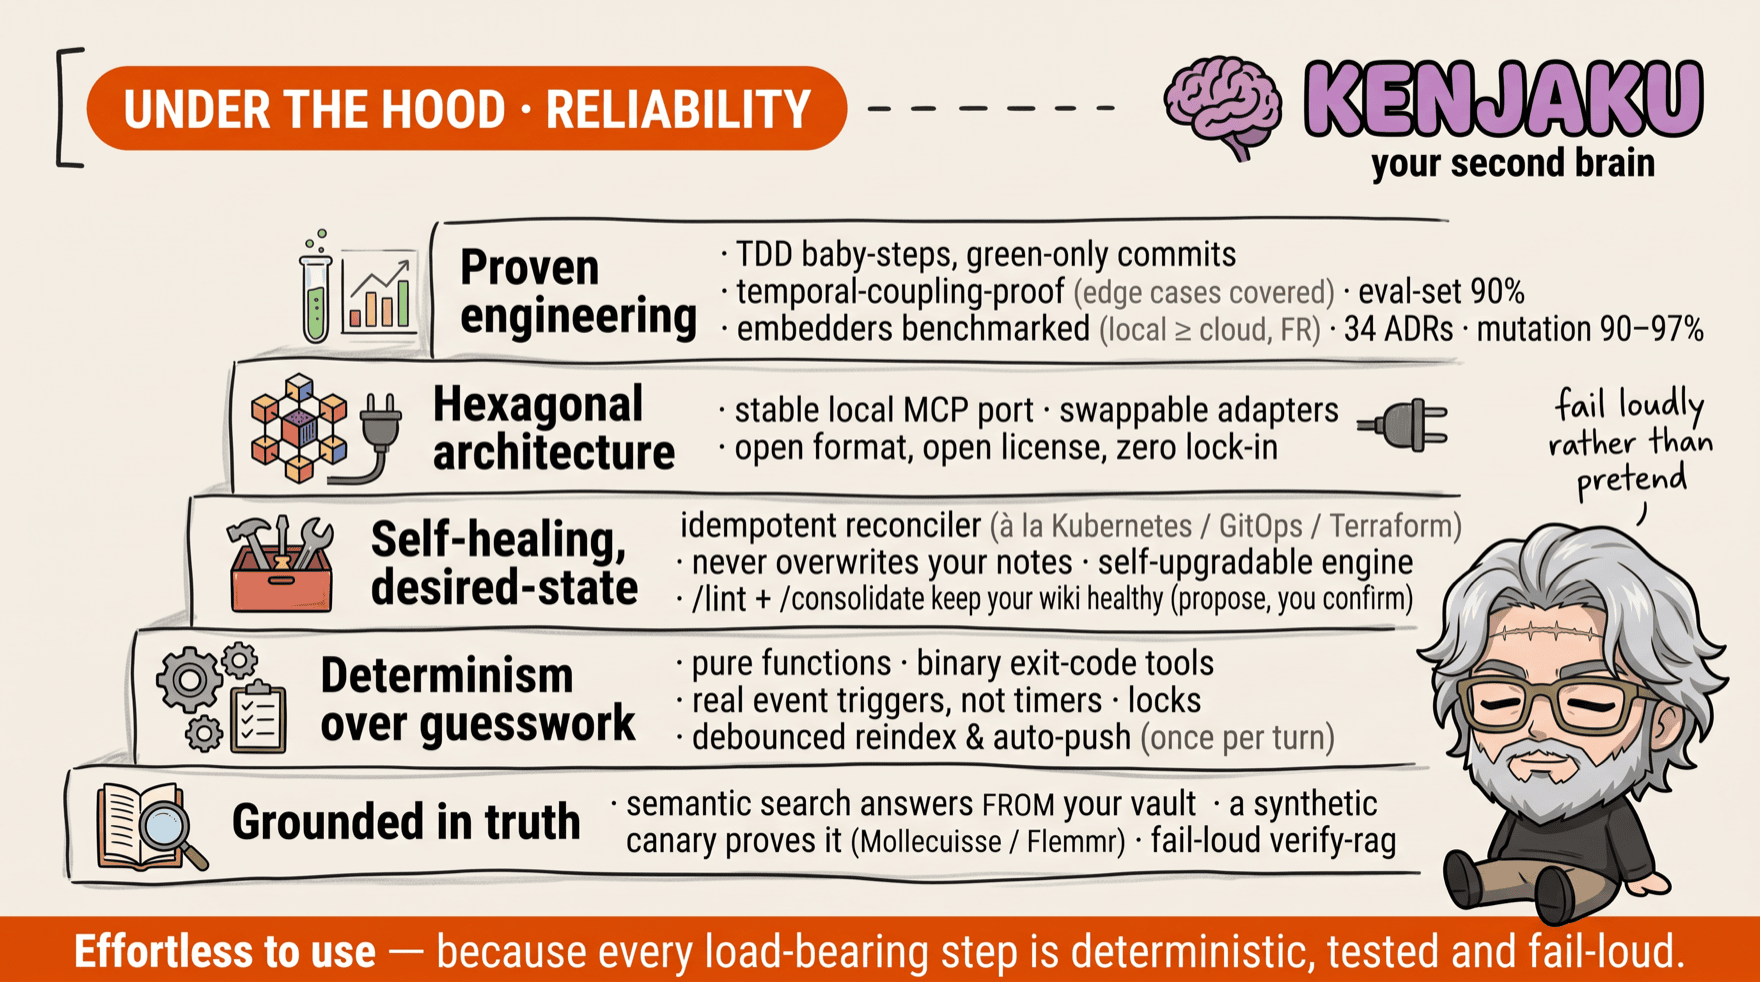
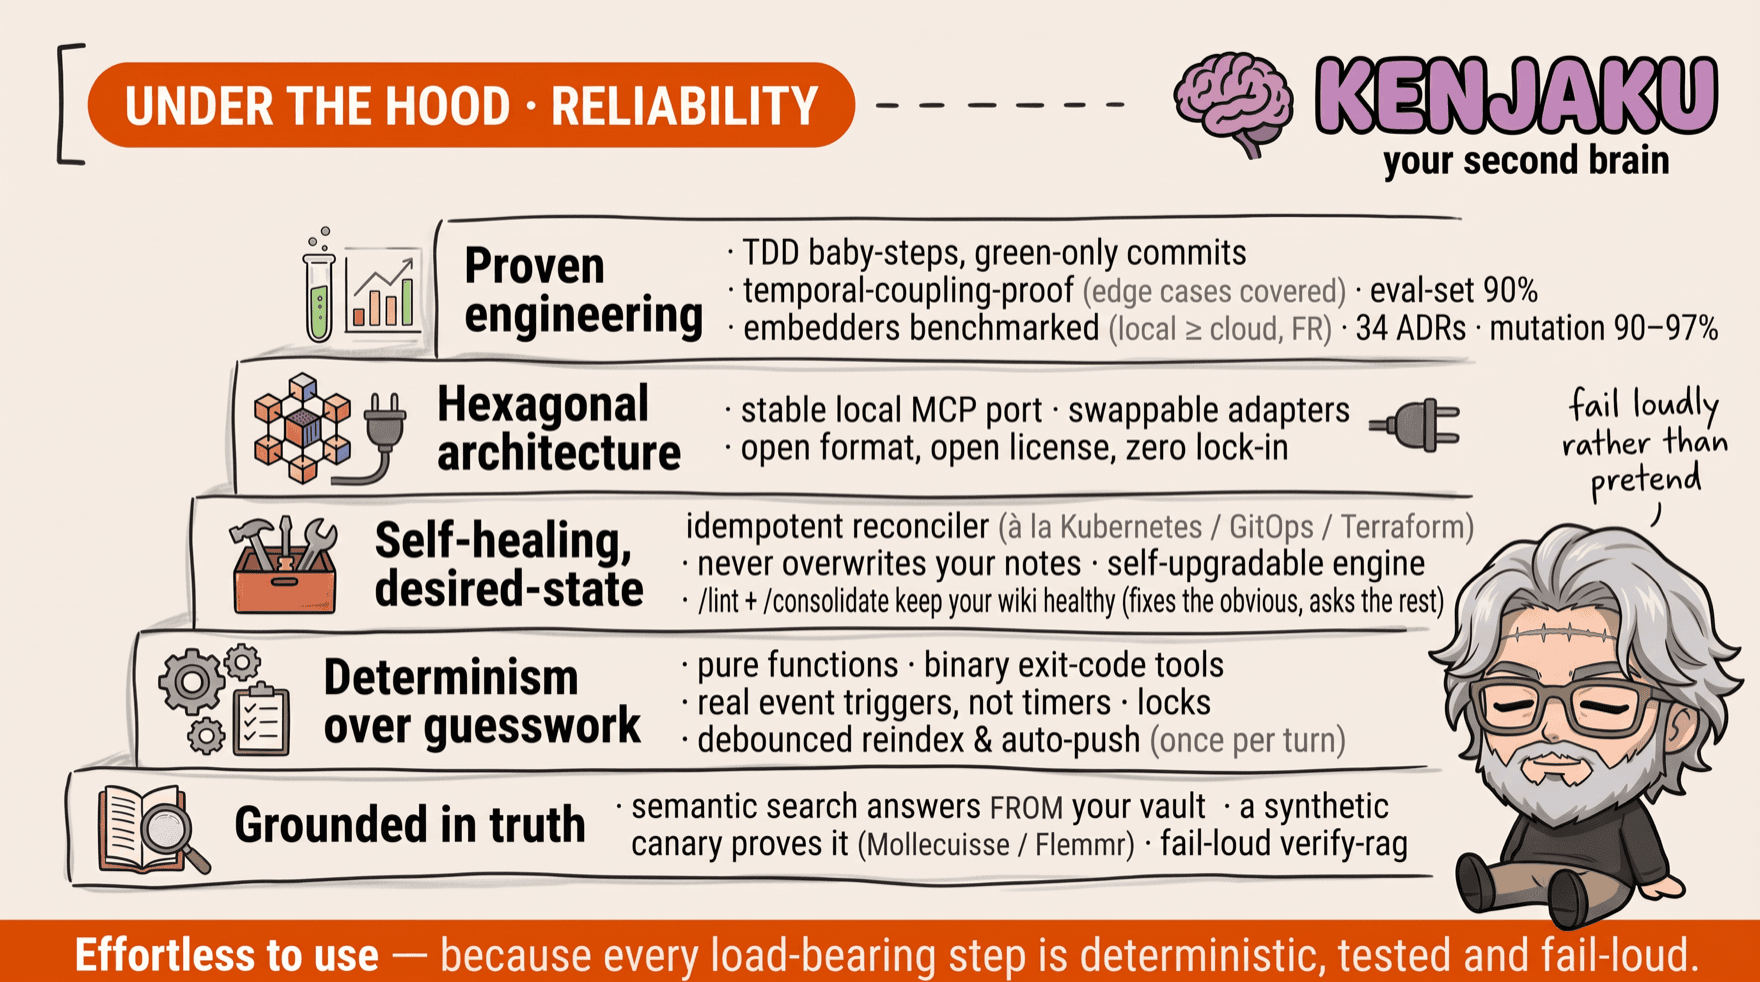
docs(marketing): the reliability board no longer promises a confirmation v5.4 stopped asking for
The board painted "/lint + /consolidate keep your wiki healthy (propose, you
confirm)", which this release makes a half-truth: some fixes now happen without
being asked about. It reads "(fixes the obvious, asks the rest)".

Retouched from the finished PNG rather than regenerated: two full re-rolls from
the prompt came back worse, one garbling a band mid-sentence, the other dropping
the Grounded in truth band entirely. Post-produced to the house gabarit,
1760 x 982 and 605 KB, by the recipe the 18 boards were compressed with in July.

What the four passes cost is written beside the prompt, so the next stale line
costs one pass: quote the whole line, never the fragment that changes.

Changed region(s): [[0.0, 0.2138, 1.0, 1.0], [0.0312, 0.0305, 0.625, 0.1833], [0.6562, 0.0305, 1.0, 0.1833]]

diff --git a/maintainers/plans/prospective/v5.4-stop-talking-like-a-dashboard-action.md b/maintainers/plans/prospective/v5.4-stop-talking-like-a-dashboard-action.md
@@ -15,21 +15,20 @@
 
 ## 📍 STATE — the only perishable block in this file · opened 2026-09-12
 
-- **Next:** 🙋 **HIS — the reliability render (see *Blocked on*), then the tag.** _(Two defects he
+- **Next:** 🙋 **HIS — the tag, and nothing else.** _(Two defects he
   found on his own screen were folded in first, on his call: step 8.)_ Everything else is done and green:
   [**PR #116**](https://github.com/tpierrain/kenjaku/pull/116) is open with all checks passing, the
   note is written ([`releases/v5.4.0.md`](../../releases/v5.4.0.md)), mutation reads **98.11–100 %**
   on all eight targets, the marketing surface is re-read, and the field rehearsal converged
   **v3.5.0 → v5.4.0** with the owner's own files byte-identical. After the tag: close #79 (§10bis)
   and archive this plan (§7).
-- **Blocked on:** 🖼 **one render, and it is his** — he answered the three open questions on
-  2026-09-13 (§ *Step 10*) and **asked for `docs/img/board-reliability.png` to be regenerated BEFORE
-  the release**, against the recommendation. The prompt is already correct in
-  [`docs/marketing-image-prompts.md`](../../../docs/marketing-image-prompts.md) § *`board-reliability.png`*:
-  paste it into Nano Banana with `docs/img/kenjaku.png` attached, drop the PNG on the same filename.
-  **No session here can render an image**, so the tag waits on that file. His other two answers:
-  **ship ahead of [#115](https://github.com/tpierrain/kenjaku/issues/115)**, and **yes to all three 🟢
-  proposals** — the latter is post-tag work, since shipping now was his other answer.
+- **Blocked on:** nothing. 🖼 **The reliability board is DONE** — he retouched it rather than
+  re-rolling it (two full regenerations came back worse), and the image is in the branch, post-produced
+  to the house gabarit `1760 × 982` / 605 KB. The recipe and what the four passes cost are beside the
+  prompt, in [`docs/marketing-image-prompts.md`](../../../docs/marketing-image-prompts.md). His other
+  two answers of 2026-09-13 (§ *Step 10*): **ship ahead of [#115](https://github.com/tpierrain/kenjaku/issues/115)**,
+  and **yes to all three 🟢 proposals** — the latter is post-tag work, since shipping now was his answer
+  in the same breath.
 - **A session may, alone:** everything up to the tag — register, code test-first, commit, push, read
   CI, draft the note. **Not:** tag or publish; write into `templates/fr/**` outside the standing
   carve-out; touch either of his two personal brains.

diff --git a/docs/marketing-image-prompts.md b/docs/marketing-image-prompts.md
@@ -162,6 +162,31 @@ right has no reason to be re-rolled.
 *If the replacement does not fit on one line, the shorter wording is `(fixes the obvious, asks the
 rest)` — the claim that matters is that some fixes happen without being asked about.*
 
+**Three things this edit cost, so the next one costs none of them** *(2026-09-13, four passes)*:
+
+- **Quote the WHOLE line, never just the fragment that changes.** Asked to swap a parenthesis for a
+  longer one, the tool made room by **deleting words either side of it** (`keep your wiki healthy`
+  vanished) and by truncating a nearby one (`/consolidate` → `/consoidat`). Give it the finished line
+  in full, and add *"do not drop any word to make room; set this line slightly smaller if it is tight."*
+- **A word can come back mangled, and only re-lettering THAT word fixes it** (`the obvious` →
+  `·bvious`). Re-state the whole line again, naming the word to spell out.
+- **Nothing else drifted across four passes.** The five bands, the icons, the mascot, the ribbon and
+  every other line came back pixel-faithful, which is the whole reason to edit rather than re-roll.
+
+### 📦 Post-production — every board, before it is committed
+
+**The repo's boards are all `1760 × 982` and ~600–800 KB**, and that is not cosmetic: the raw renders
+are ~5 MB each, they ship **into every generated brain**, and git keeps each version for ever. The
+recipe (settled 2026-07-25, when 18 boards went from **87 MB to 12 MB**):
+
+```bash
+sips --resampleWidth 1760 board.png                                  # 16:9 → 1760 × 982
+pngquant --quality=70-90 --speed 1 --force --output out.png board.png
+```
+
+Keep the `.png` extension and the exact `board-*.png` filename: the README and the brain's own copy
+reference those slots, so nothing else has to change.
+
 > 📌 **The prompt above stays the source of truth** for a full regeneration, and it already carries the
 > corrected copy. Two figures in it age on their own and are worth refreshing **the next time the board
 > is rebuilt from scratch**: the ADR count (`34 ADRs`) and the mutation range.
